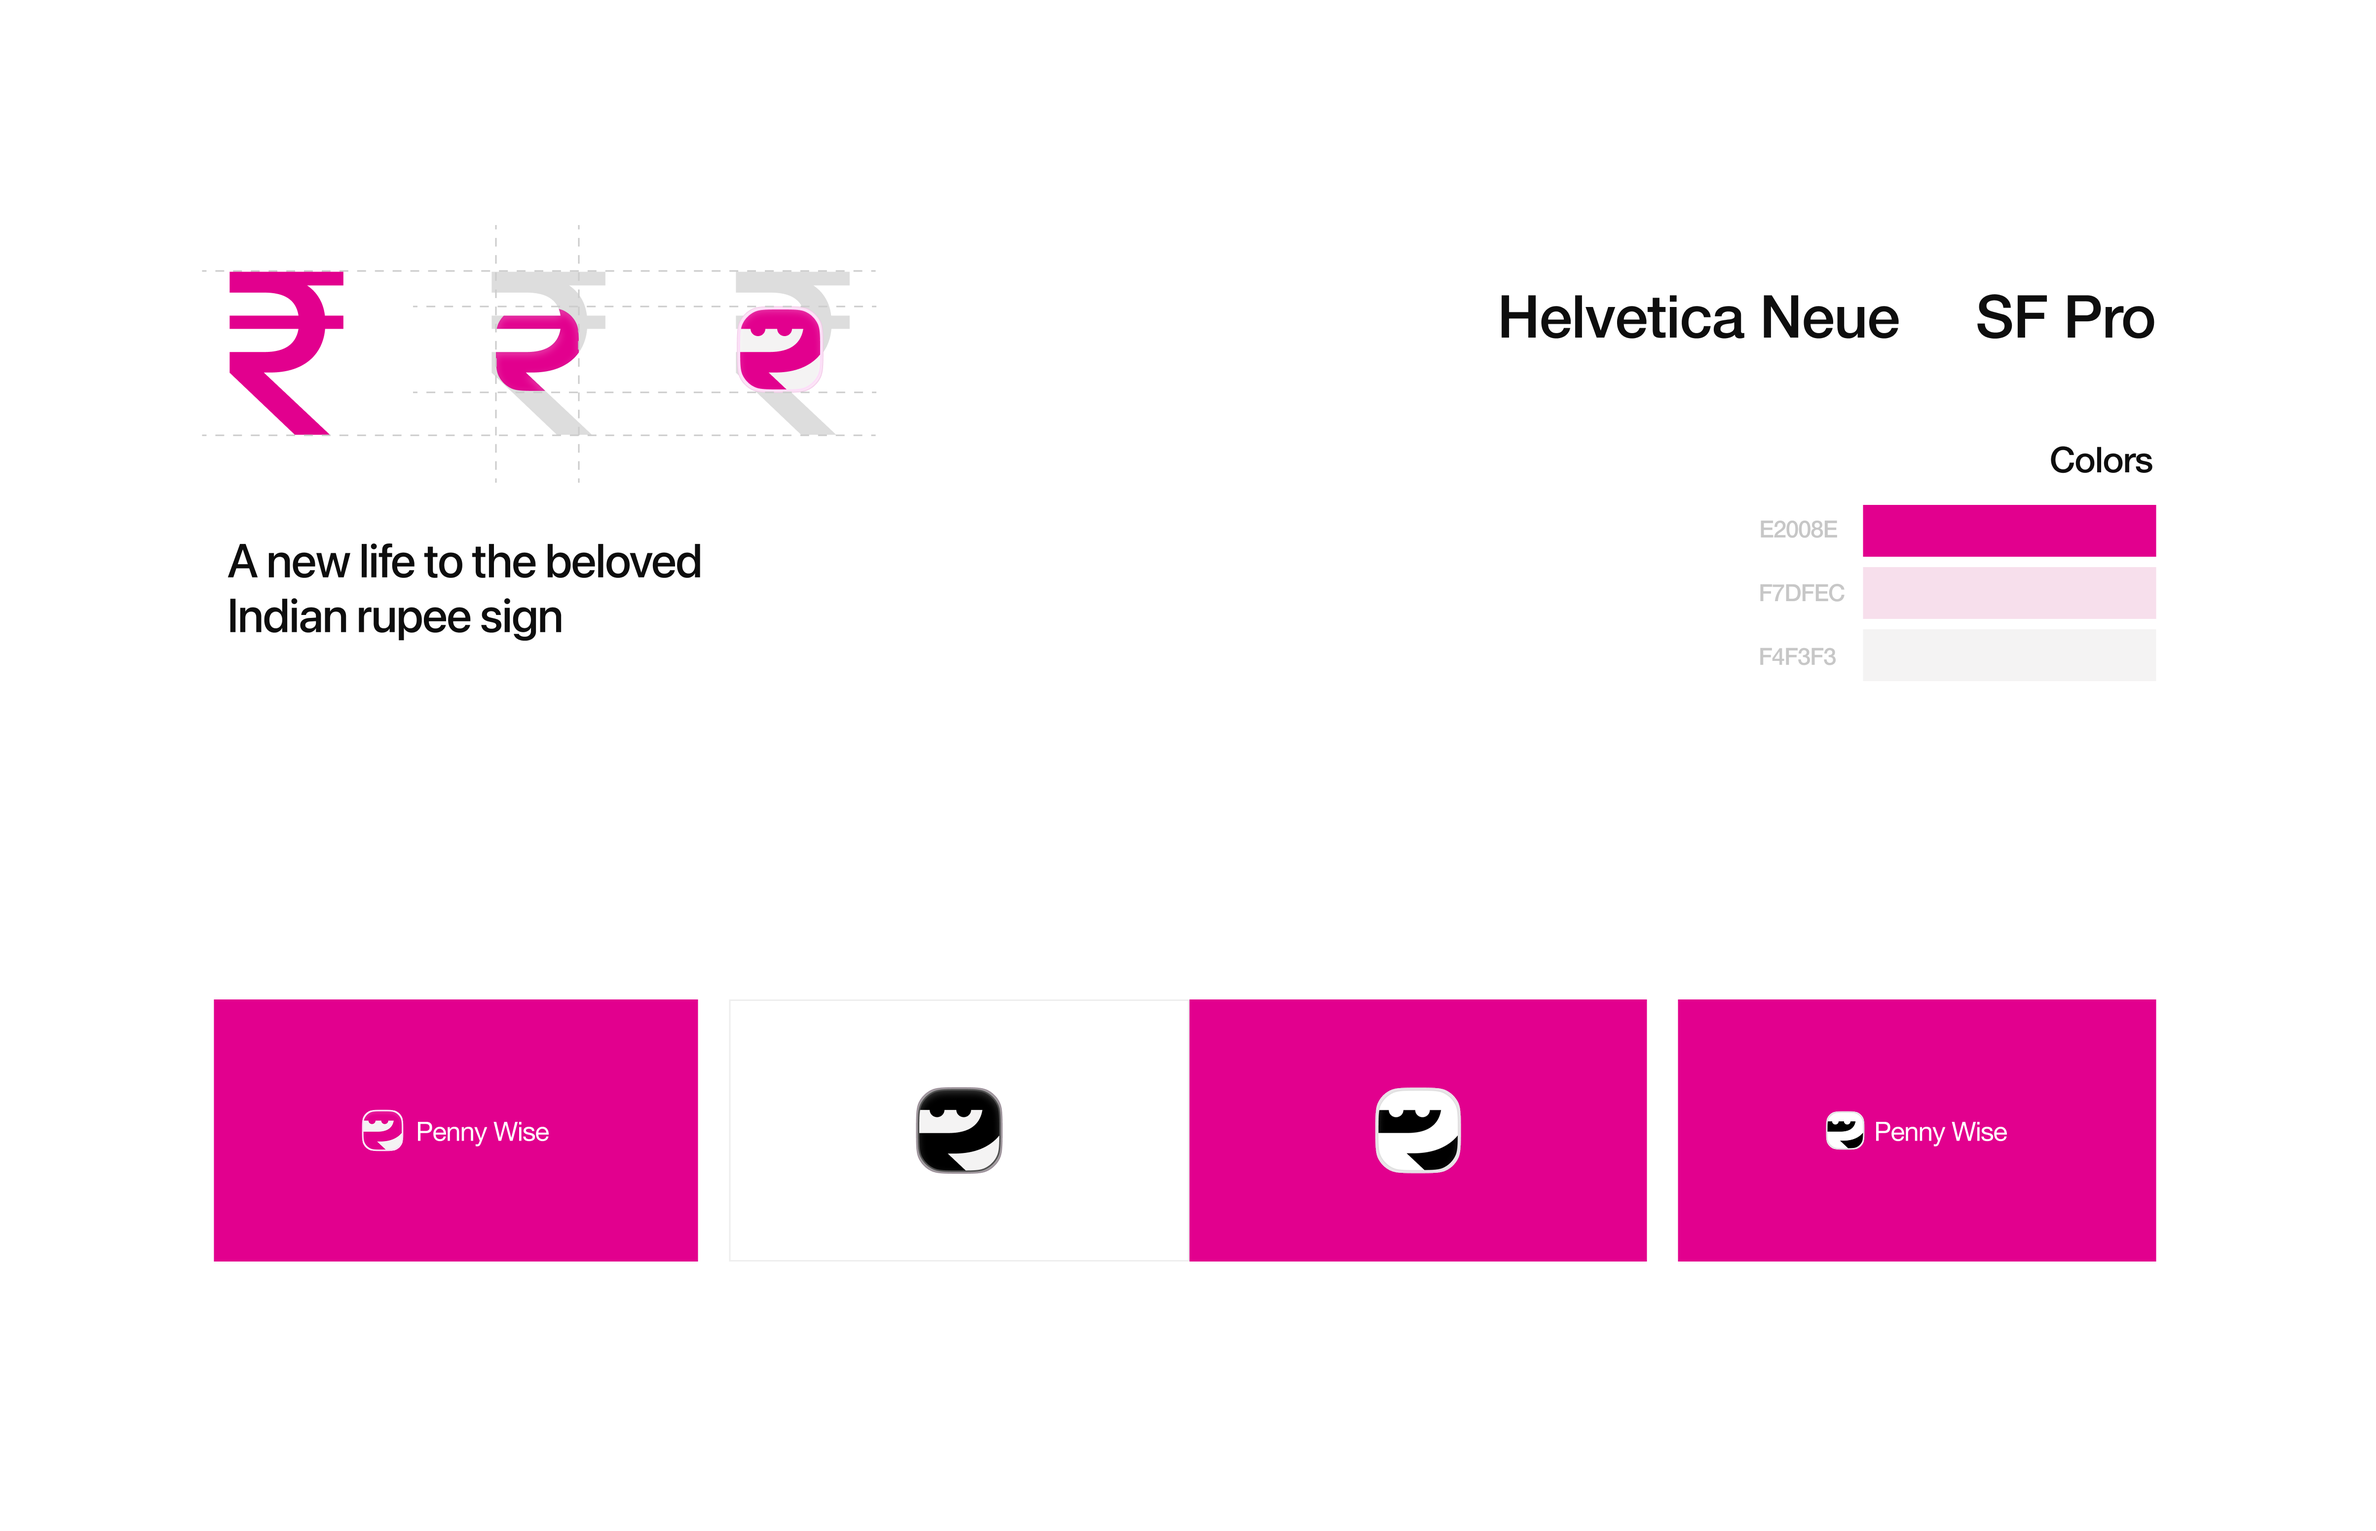
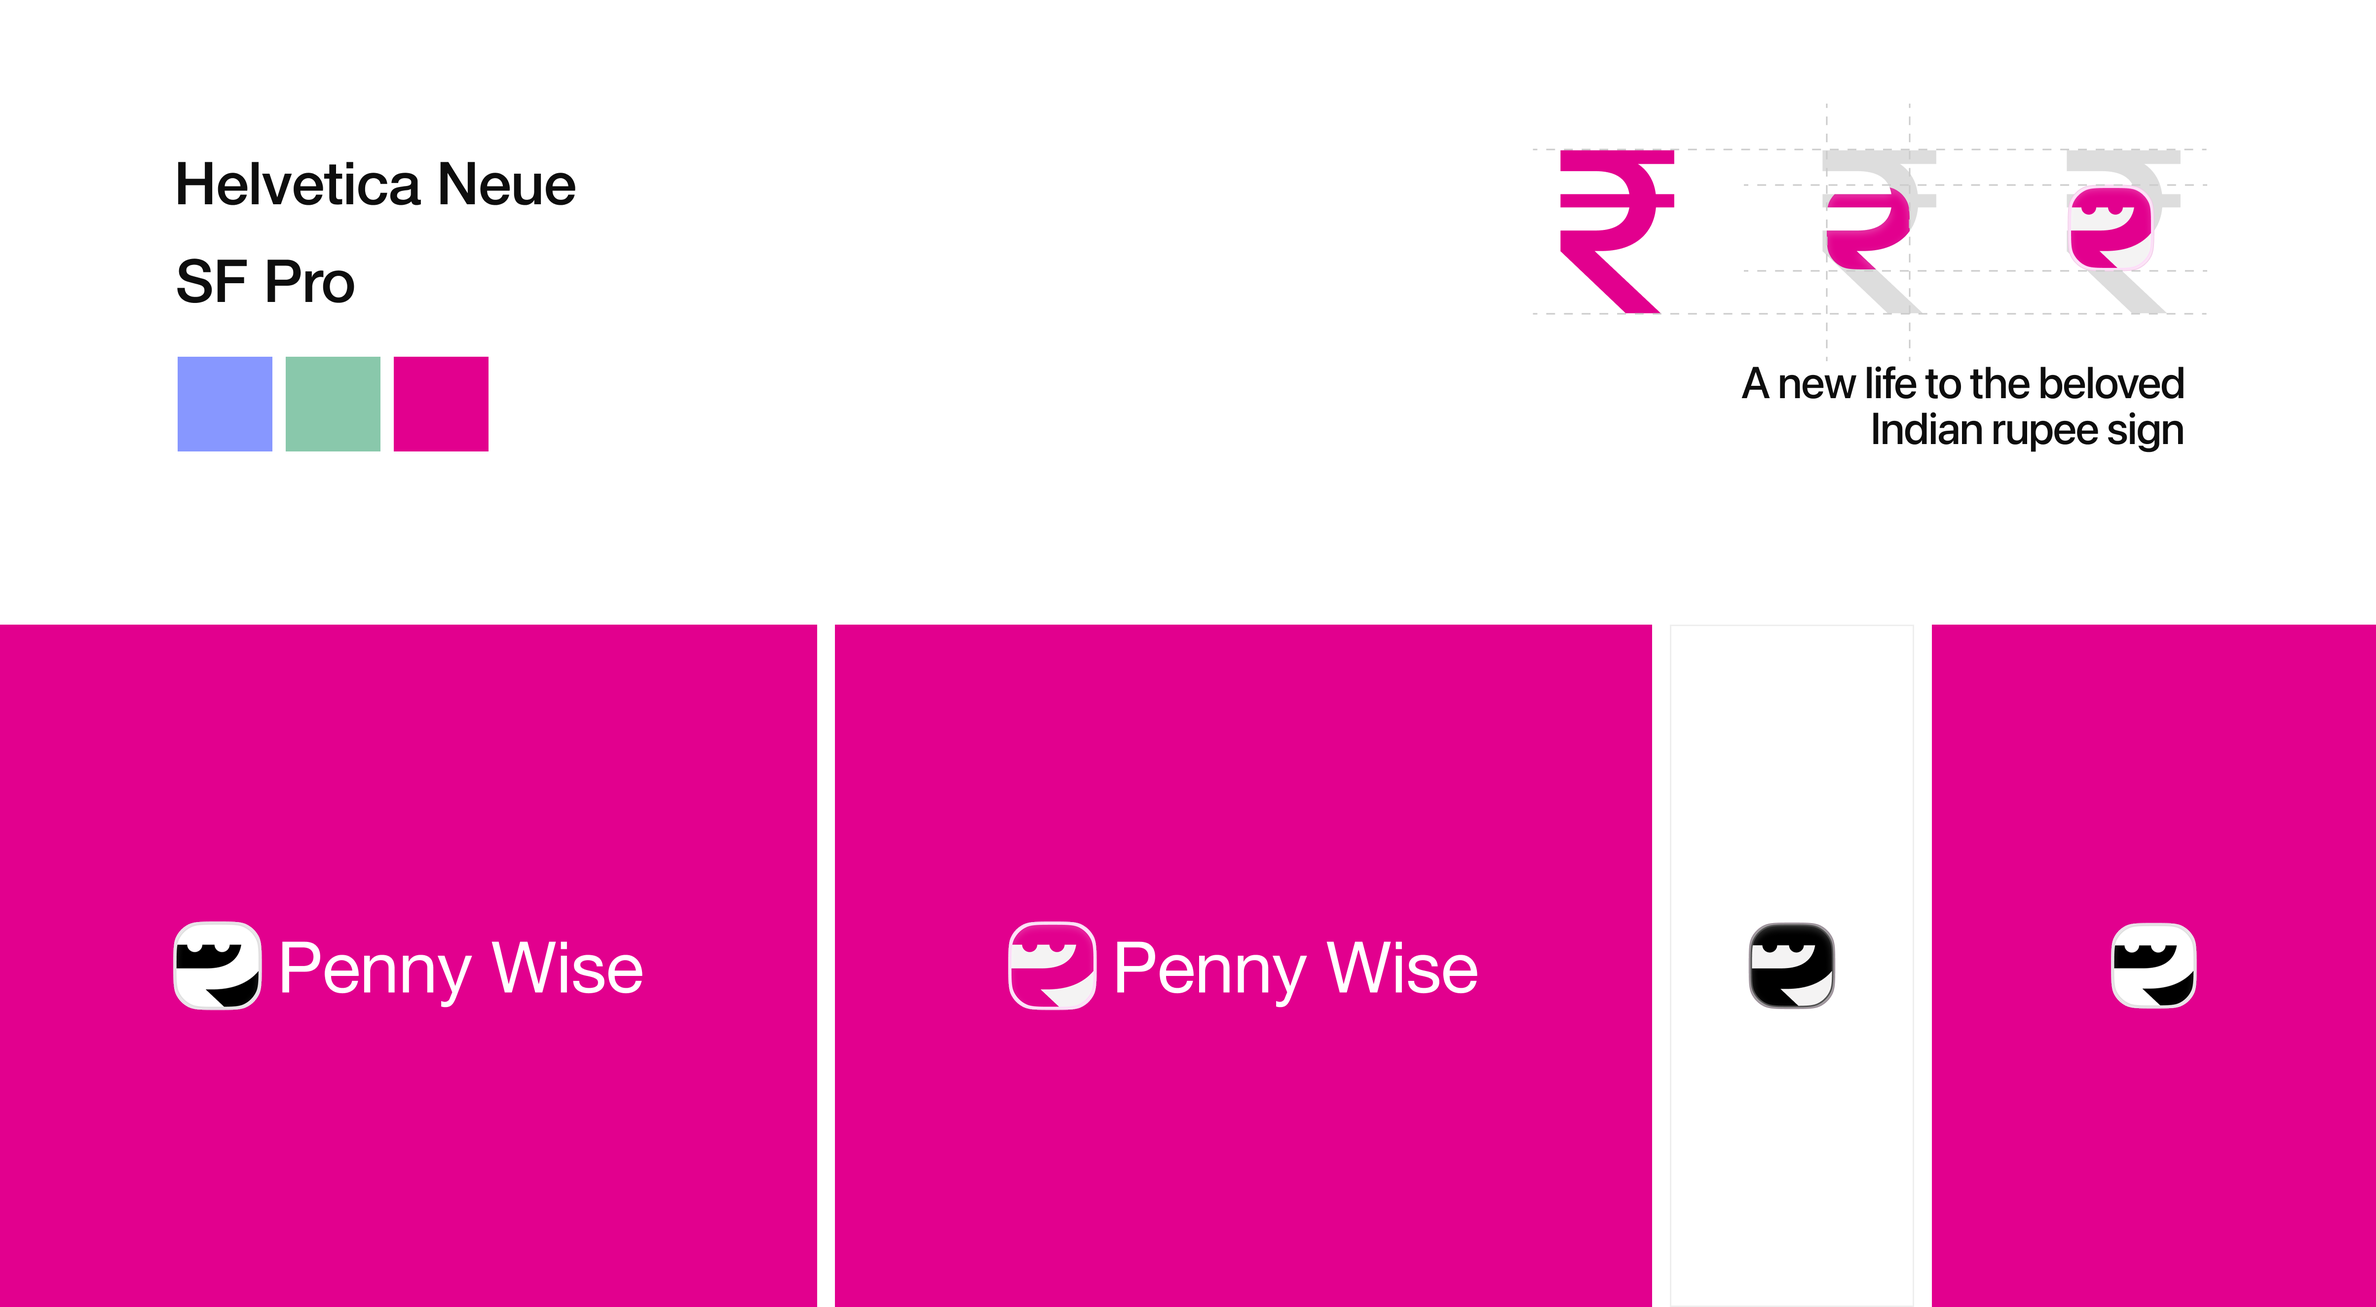
feat: Brand 05 back in after the video; updated Brand 03

diff --git a/src/components/projectsData.js b/src/components/projectsData.js
@@ -8,6 +8,7 @@ import pennywiseBrand1 from '../../pics/clients/pennywise/Brand 01.png';
 import pennywiseBrand2 from '../../pics/clients/pennywise/Brand 02.png';
 import pennywiseBrand3 from '../../pics/clients/pennywise/Brand 03.png';
 import pennywiseBrand4Video from '../../pics/clients/pennywise/Brand 04.mp4';
+import pennywiseBrand5 from '../../pics/clients/pennywise/Brand 05.png';
 import runableImg from '../../pics/clients/runable/bg.jpg';
 
 // Ordered newest to oldest.
@@ -25,6 +26,7 @@ export const projects = [
             { type: 'images', images: [pennywiseImg] },
             { type: 'text' },
             { type: 'video', src: pennywiseBrand4Video },
+            { type: 'images', images: [pennywiseBrand5] },
             { type: 'images', images: [pennywiseBrand3] },
             { type: 'images', images: [pennywiseBrand2] },
             { type: 'images', images: [pennywiseBrand1] }
